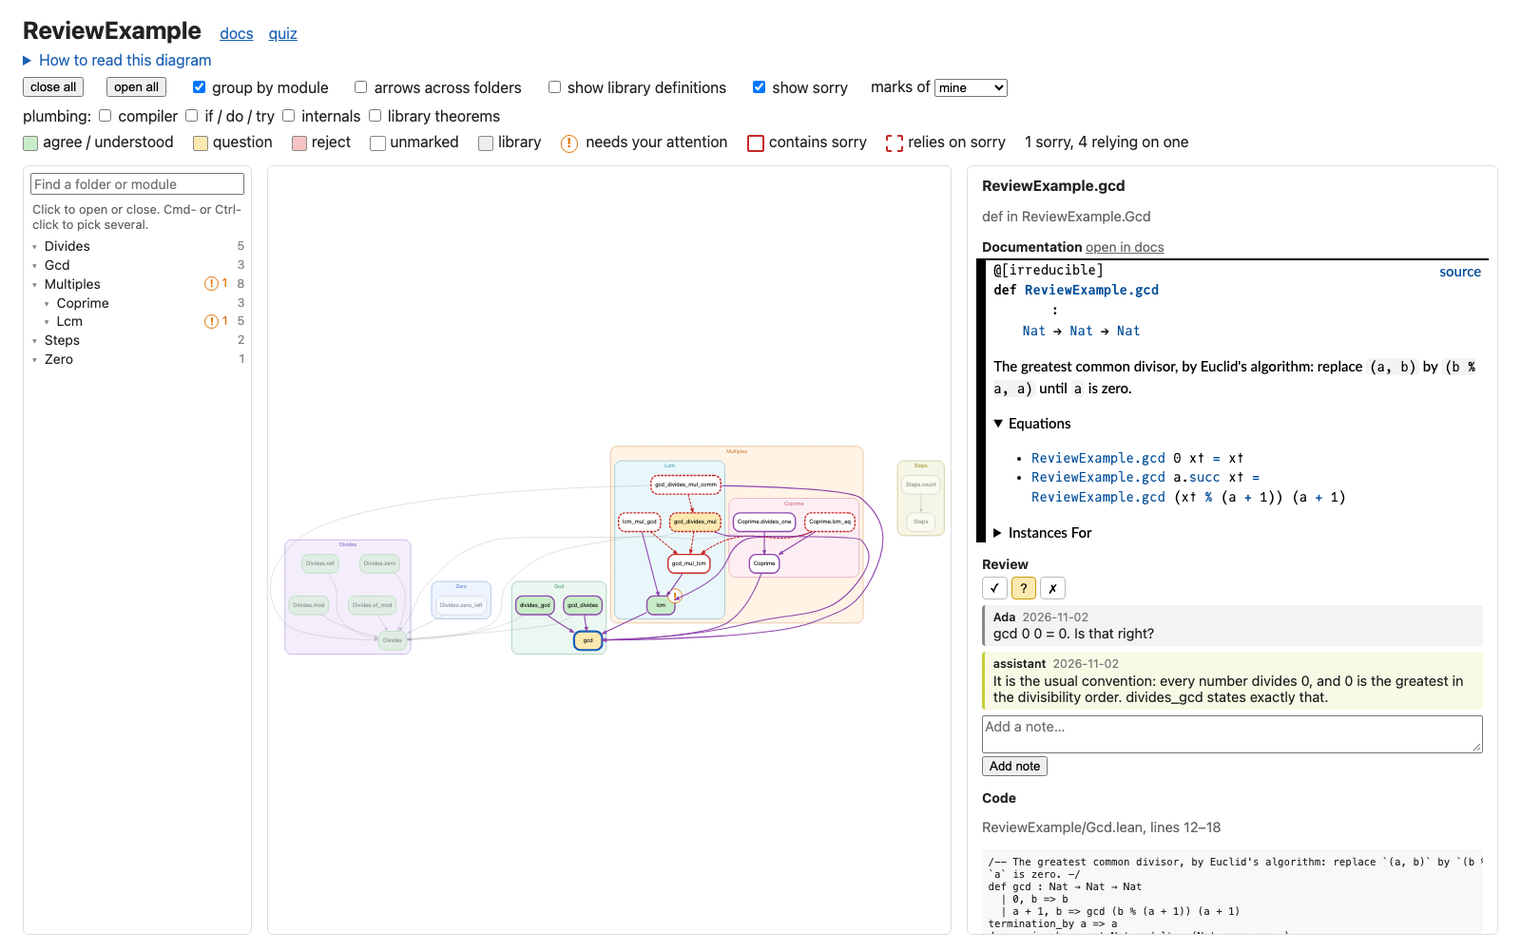
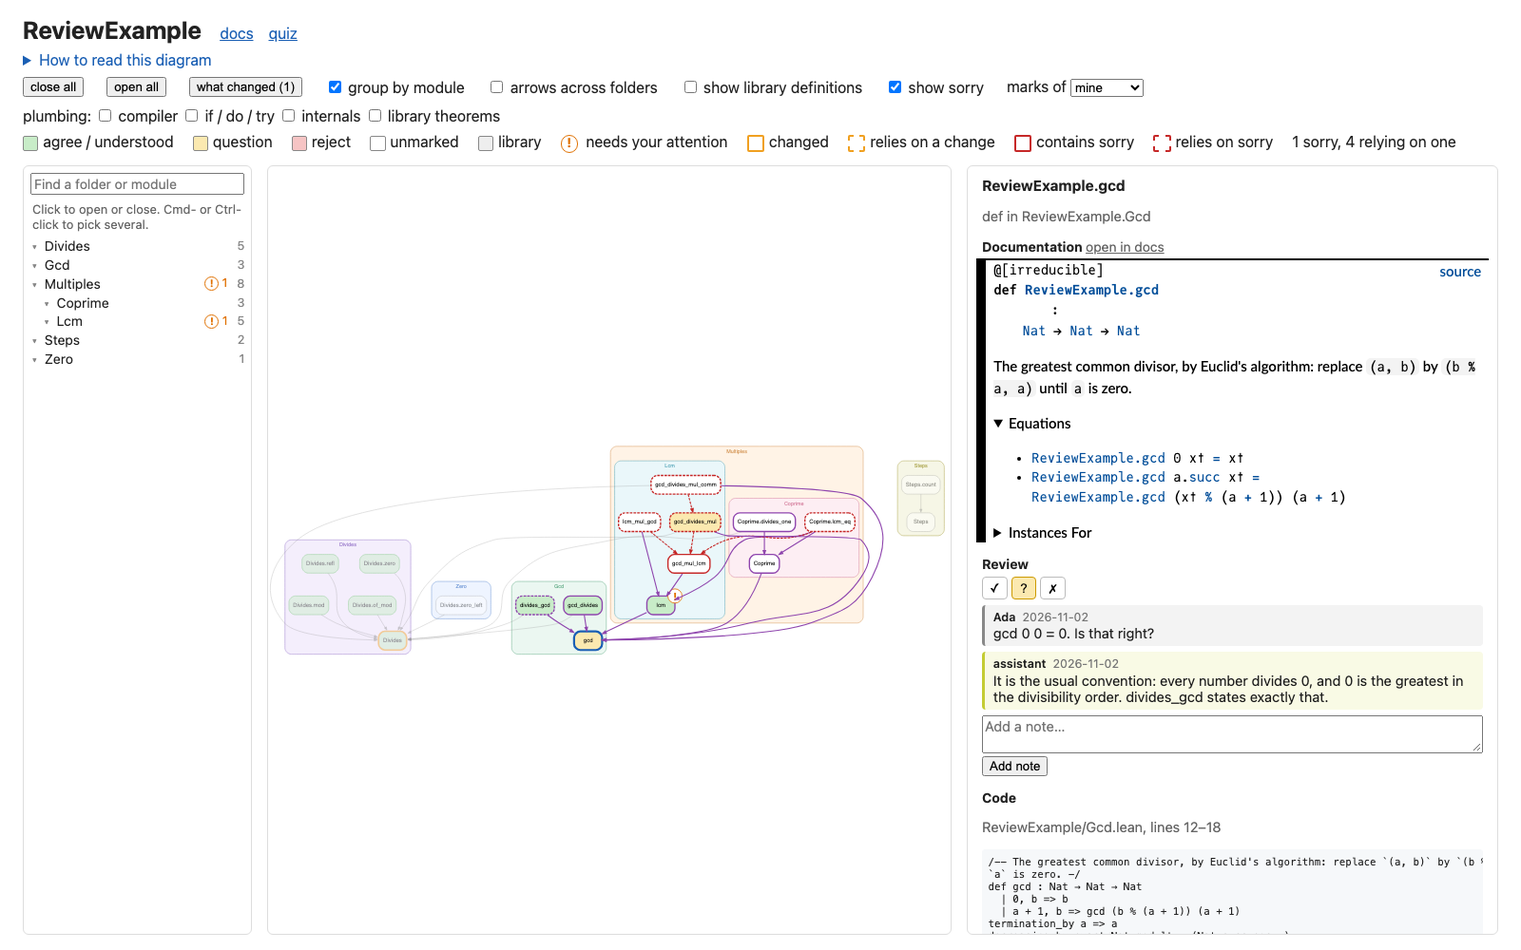
Trace changes: show what changed apart from what relies on it
A solid orange border is a declaration that changed since a mark relying on it, a dashed one what relies on a change, including declarations nobody marked. Selecting a flagged declaration lights the way down to the change, and "what changed" lists changes lowest first, with how many marks rely on each. Marks stay flagged until their owner has looked: accepting a change doesn't accept what's built on it.

Changed region(s): [[0.375, 0.062, 0.9375, 0.155], [0.125, 0.062, 0.3438, 0.124]]

diff --git a/lean_review/web/graph.html b/lean_review/web/graph.html
@@ -82,6 +82,11 @@
   #sidebar .review-notes .by-tool { background: none; border-color: #ccc; color: #777; font-style: italic; font-size: 0.9em; }
   /* Highlighting the selected node, what it depends on (below) and what depends on it (above). */
   .hl-dim { opacity: 0.45; }
+  g.node.hl-change { opacity: 1; }
+  g.node.hl-change path, g.node.hl-change polygon, g.node.hl-change rect { stroke: #f0a020 !important; stroke-width: 3px !important; }
+  g.edge.hl-change { opacity: 1; }
+  g.edge.hl-change path, g.edge.hl-change polygon { stroke: #f0a020 !important; stroke-width: 2.5px !important; }
+  g.edge.hl-change polygon { fill: #f0a020; }
   .hl-selected path, .hl-selected polygon, .hl-selected rect { stroke: #1a5fb4 !important; stroke-width: 4px !important; }
   .hl-down path, .hl-down polygon, .hl-down rect { stroke: #2a7de1 !important; stroke-width: 2.5px !important; }
   .hl-up path, .hl-up polygon, .hl-up rect { stroke: #8e44ad !important; stroke-width: 2.5px !important; }
@@ -107,8 +112,8 @@
   <nav><a id="docs-link" href="/">docs</a><a href="/review/quiz">quiz</a></nav></header>
 <details class="note"><summary>How to read this diagram</summary><p>Each arrow points from a declaration to one it depends on, with the arrows implied
 by others left out (a Hasse diagram). For a theorem, only its statement counts; for a definition,
-its statement and body. Colors are your marks; an orange border means something below changed
-since you marked it. Scroll to zoom, drag to pan. Click a node to see its code and notes, and to
+its statement and body. Colors are your marks; a solid orange border means it changed since a mark that relies on it, a
+dashed one that something below it did; selecting one traces the way down to the change. Scroll to zoom, drag to pan. Click a node to see its code and notes, and to
 highlight <span class="key-down">what it depends on</span> and <span class="key-up">what depends
 on it</span>; click empty space to clear. Boxes are folders and modules, with how many of their
 declarations you have marked: click one to open it, and click an open box's label to close it.
@@ -123,6 +128,7 @@ step by step. Shift-click a <code>sorry</code> to see all it reaches.</p></detai
   <button type="button" id="close-all">close all</button>
   <button type="button" id="open-all" hidden>open all</button>
   <button type="button" id="clear-pins" hidden>show everything</button>
+  <button type="button" id="what-changed" hidden></button>
   <label><input type="checkbox" id="clusters" checked> group by module</label>
   <label><input type="checkbox" id="across"> arrows across folders</label>
   <label><input type="checkbox" id="library"> show library definitions</label>
@@ -137,6 +143,8 @@ step by step. Shift-click a <code>sorry</code> to see all it reaches.</p></detai
     <span><i class="swatch" style="background:#fff"></i>unmarked</span>
     <span><i class="swatch" style="background:#eee"></i>library</span>
     <span id="attention-key" hidden><span class="attention-mark">!</span> needs your attention</span>
+    <span class="change-key" hidden><i class="swatch" style="background:#fff;border:2px solid #f0a020"></i>changed</span>
+    <span class="change-key" hidden><i class="swatch" style="background:#fff;border:2px dashed #f0a020"></i>relies on a change</span>
     <span class="gaps-key" hidden><i class="swatch" style="background:#fff;border:2px solid #c62828"></i>contains sorry</span>
     <span class="gaps-key" hidden><i class="swatch" style="background:#fff;border:2px dashed #c62828"></i>relies on sorry</span>
     <span class="gaps-key" id="gaps-total" hidden></span>
@@ -240,6 +248,18 @@ step by step. Shift-click a <code>sorry</code> to see all it reaches.</p></detai
     return current.size > 1 ? "disagree" : everyMark(n)[0]?.status;
   };
   const stale = n => viewer.value === "all" ? false : isOld(n, shownMark(n));
+  // What changed, and how many marks rely on each: every mark recorded what lay below it, so this
+  // includes declarations nobody marked. Marks shown are the viewer's; everyone's has no single view.
+  const changedNames = () => {
+    const found = new Map();
+    if (viewer.value === "all") return found;
+    for (const n of Object.keys(marks)) {
+      const c = changes(n, shownMark(n));
+      for (const d of [...(c.self ? [n] : []), ...c.deps]) found.set(d, (found.get(d) ?? 0) + 1);
+    }
+    return found;
+  };
+  const changeOf = n => changedNames().has(n) ? "changed" : stale(n) ? "affected" : null;
   const asked = n => marks[n]?.attention?.length > 0;
   const waitingIn = node => Object.keys(marks).filter(n => asked(n) && node.modules.includes(decls[n]?.module)).length;
   const ORANGE = "#e07000";
@@ -251,9 +271,10 @@ step by step. Shift-click a <code>sorry</code> to see all it reaches.</p></detai
   const SORRY = "#c62828";
   const showGaps = () => document.getElementById("gaps").checked;
   const gapOf = n => !showGaps() ? null : decls[n]?.sorry ? "source" : decls[n]?.sorryFrom?.length ? "affected" : null;
-  const border = (isStale, gap, stroke) => gap === "source" ? { color: SORRY, width: 3 }
+  const border = (change, gap, stroke) => gap === "source" ? { color: SORRY, width: 3 }
     : gap === "affected" ? { color: SORRY, width: 2, dashed: true }
-    : isStale ? { color: "#f0a020", width: 3 } : { color: stroke, width: 1 };
+    : change === "affected" ? { color: "#f0a020", width: 2, dashed: true }
+    : change ? { color: "#f0a020", width: 3 } : { color: stroke, width: 1 };
   // Direct dependents of each declaration: for the sidebar, and for arrows from closed boxes.
   const usedBy = new Map();
   const indexUsers = () => {
@@ -397,9 +418,10 @@ step by step. Shift-click a <code>sorry</code> to see all it reaches.</p></detai
     // The diagram as data, drawn by drawGraphviz below.
     const ids = new Map([...inGraph].map((n, i) => [n, "n" + i]));
     model = { nodes: [], edges: [], name: new Map(), id: ids, box: new Map(), down: new Map(), up: new Map(), weight: new Map() };
+    model.boxIdOf = n => { const box = boxOf.get(decls[n]?.module); return box ? boxId(box) : undefined; };
     for (const n of inGraph) {
       model.name.set(ids.get(n), n);
-      model.nodes.push({ id: ids.get(n), label: short(n).replaceAll('"', "'"), stale: stale(n), gap: gapOf(n),
+      model.nodes.push({ id: ids.get(n), label: short(n).replaceAll('"', "'"), stale: changeOf(n), gap: gapOf(n),
         cls: nodeClass(n),
         module: decls[n] ? decls[n].module : null });                    // library: no module box
     }
@@ -483,6 +505,7 @@ step by step. Shift-click a <code>sorry</code> to see all it reaches.</p></detai
     await drawGraphviz(model, target);
     retitle();
     drawBadges();
+    showChanged();
     // Clicking a node selects it; clicking empty space clears the selection.
     target.addEventListener("click", e => {
       // A click on an open box's label closes it.
@@ -716,15 +739,54 @@ step by step. Shift-click a <code>sorry</code> to see all it reaches.</p></detai
   function highlight(id) {
     const nodes = nodeElements(), edges = edgeElements();
     for (const el of [...nodes.values(), ...edges.map(e => e[2])])
-      el.classList.remove("hl-dim", "hl-selected", "hl-down", "hl-up", "hl-both");
+      el.classList.remove("hl-dim", "hl-selected", "hl-down", "hl-up", "hl-both", "hl-change");
     if (!id) return;
     const down = walk(id, model.down), up = walk(id, model.up);
+    const trail = changeTrail(id);
     for (const [n, el] of nodes)
       el.classList.add(n === id ? "hl-selected" : down.has(n) ? "hl-down" : up.has(n) ? "hl-up" : "hl-dim");
     for (const [a, b, el] of edges)
       el.classList.add((a === id || down.has(a)) && (b === id || down.has(b)) ? "hl-down"
         : (b === id || up.has(b)) && (a === id || up.has(a)) ? "hl-up" : "hl-dim");
+    for (const [n, el] of nodes) if (trail.has(n)) el.classList.add("hl-change");
+    for (const [a, b, el] of edges) if (trail.has(a) && trail.has(b)) el.classList.add("hl-change");
   }
+  // The way down from a flagged declaration to what changed: everything between, and those changes.
+  function changeTrail(id) {
+    const name = model.name.get(id), c = name ? changes(name, shownMark(name)) : { self: false, deps: [] };
+    const targets = new Set(c.deps.map(d => model.id.get(d) ?? model.boxIdOf?.(d)).filter(Boolean));
+    if (c.self) targets.add(id);
+    const reaches = new Map();
+    const reach = n => {
+      if (!reaches.has(n)) {
+        reaches.set(n, targets.has(n));
+        reaches.set(n, targets.has(n) || [...(model.down.get(n) ?? [])].map(reach).some(Boolean));
+      }
+      return reaches.get(n);
+    };
+    return targets.size && reach(id) ? new Set([id, ...[...reaches].filter(([, on]) => on).map(([n]) => n)]) : new Set();
+  }
+  const changedButton = document.getElementById("what-changed");
+  const showChanged = () => {
+    const found = changedNames();
+    changedButton.textContent = `what changed (${found.size})`;
+    changedButton.hidden = !found.size;
+    for (const key of document.querySelectorAll(".change-key")) key.hidden = !found.size;
+  };
+  // The lowest first: what a change means depends on what's beneath it.
+  changedButton.onclick = () => {
+    selected = null;
+    highlight(null);
+    const list = el("ul");
+    const found = changedNames();
+    for (const n of [...found.keys()].sort((a, b) => below(a).size - below(b).size || a.localeCompare(b))) {
+      const item = el("li");
+      item.append(ref(n), ` (${found.get(n)} ${found.get(n) === 1 ? "mark relies" : "marks rely"} on it)`);
+      list.append(item);
+    }
+    sidebar.replaceChildren(el("h2", null, "What changed"),
+      el("p", "muted", "Lowest first, since what a change means depends on what's beneath it."), list);
+  };
 
   // Update one node's colors after its mark changes, without redrawing (which would reset zoom).
   function recolor(name) {
@@ -732,17 +794,19 @@ step by step. Shift-click a <code>sorry</code> to see all it reaches.</p></detai
     const id = model.id.get(name);
     const g = id && nodeElements().get(id);
     if (!g) return;
-    const [fill, stroke] = COLORS[nodeClass(name)], isStale = stale(name), b = border(isStale, gapOf(name), stroke);
+    const [fill, stroke] = COLORS[nodeClass(name)], change = changeOf(name), b = border(change, gapOf(name), stroke);
     for (const shape of g.querySelectorAll("path, polygon, rect")) {
       shape.setAttribute("fill", fill);
       shape.setAttribute("stroke", b.color);
       shape.style.fill = fill;
       shape.style.stroke = b.color;
       shape.style.strokeWidth = `${b.width}px`;
+      shape.style.strokeDasharray = b.dashed ? "5,2" : "";
     }
     const node = model.nodes.find(n => n.id === id);
-    if (node) Object.assign(node, { cls: nodeClass(name), stale: isStale });
+    if (node) Object.assign(node, { cls: nodeClass(name), stale: change });
     drawBadges();
+    showChanged();
   }
 
   function select(name) {

diff --git a/lean_review/web/review.js b/lean_review/web/review.js
@@ -133,6 +133,18 @@
 
   const renderers = new Map();   // how to redraw each declaration on this page
 
+  // What changed, and how many of your marks rely on each. Every mark recorded what lay below it,
+  // so this includes declarations you never marked.
+  const changedNames = () => {
+    const found = new Map();
+    for (const [name, mark] of Object.entries(marks)) {
+      if (!mark.status || !mark.fingerprint) continue;
+      const c = changes(name, mark);
+      for (const d of [...(c.self ? [name] : []), ...c.deps]) found.set(d, (found.get(d) ?? 0) + 1);
+    }
+    return found;
+  };
+
   function controls(name, element, library) {
     const textSignature = textFingerprint(element.textContent);
     const box = el("div", "review");
@@ -202,13 +214,16 @@
       element.dataset.reviewStatus = e.status ?? "";
       const c = e.status ? changes(name, e, textSignature) : { self: false, deps: [] };
       stale.replaceChildren();
+      const relying = changedNames().get(name);
       if (c.self) stale.append("changed since you marked it");
+      else if (relying) stale.append(`changed since ${relying} of your marks relied on it`);
       else if (c.deps.length) {
         stale.append("depends on ");
         c.deps.forEach((d, i) => { if (i) stale.append(", "); stale.append(link(d, short(d))); });
         stale.append(", which changed since you marked it");
       }
       element.dataset.reviewStale = c.self || c.deps.length ? "yes" : "";
+      element.dataset.reviewChange = c.self || relying ? "changed" : c.deps.length ? "affected" : "";
       // Only marks of what's there now can disagree.
       const isCurrent = m => { const d = changes(name, m, textSignature); return !d.self && !d.deps.length; };
       const current = [...(e.status && isCurrent(e) ? [e.status] : []),
@@ -283,6 +298,23 @@
     document.body.append(panel);
   }
 
+  // The lowest first: what a change means depends on what's beneath it.
+  function changedPanel() {
+    const panel = el("div", "review-orphans");
+    const close = el("button", "review-close", "close");
+    close.onclick = () => panel.remove();
+    panel.append(el("h3", null, "What changed"), close,
+      el("p", null, "Each of these changed since marks that rely on it were made. Start at the top: what a change means depends on what's beneath it."));
+    const list = el("ul"), found = changedNames();
+    for (const name of [...found.keys()].sort((a, b) => closure(a).size - closure(b).size || a.localeCompare(b))) {
+      const item = el("li");
+      item.append(link(name, name), ` (${found.get(name)} ${found.get(name) === 1 ? "mark relies" : "marks rely"} on it)`);
+      list.append(item);
+    }
+    panel.append(list);
+    document.body.append(panel);
+  }
+
   const needingAttention = () => Object.keys(marks).filter(n => marks[n].attention?.length);
 
   function attentionPanel() {
@@ -353,6 +385,15 @@
     };
     showAsked();
     bar.append(askedButton);
+    const changedButton = el("button", "review-orphan-button");
+    changedButton.onclick = changedPanel;
+    const showChanged = () => {
+      const found = changedNames().size;
+      changedButton.textContent = `what changed (${found})`;
+      changedButton.style.display = found ? "" : "none";
+    };
+    showChanged();
+    bar.append(changedButton);
     if (location.hash === "#review-attention" && needingAttention().length) attentionPanel();
     const filters = el("details", "review-filters");
     filters.append(el("summary", null, "show plumbing"));
@@ -412,6 +453,7 @@
         if (JSON.stringify(marks[name]) !== JSON.stringify(fresh[name])) render(fresh[name] ?? {});
       marks = fresh;
       showAsked();
+      showChanged();
       summarize();
     });
     // ?focus=A,B scrolls to those declarations once the review controls are in place; adding

diff --git a/lean_review/web/review.css b/lean_review/web/review.css
@@ -37,7 +37,8 @@
 .decl[data-review-status="agree"] { border-left: 4px solid #3a3; }
 .decl[data-review-status="question"] { border-left: 4px solid #d9a400; }
 .decl[data-review-status="reject"] { border-left: 4px solid #d44; }
-.decl[data-review-stale="yes"] { box-shadow: -4px 0 0 #f0a020; }
+.decl[data-review-change="changed"] { box-shadow: -4px 0 0 #f0a020; }
+.decl[data-review-change="affected"] { box-shadow: -4px 0 0 #f0a02066; }
 .decl[data-review-disagree="yes"] { border-left: 4px solid #7b4fb5; }
 .review-hide-generated .review-generated { display: none; }
 #review-summary { position: fixed; right: 1em; bottom: 1em; z-index: 10; display: flex; gap: 1em; align-items: center;

diff --git a/tests/test_pages.py b/tests/test_pages.py
@@ -122,7 +122,7 @@ class PagesTest(unittest.TestCase):
         docs.joinpath(*parts).write_text(text)
         return docs
 
-    def click_through(self, marks, script, *, frame=None, page="ReviewExample/Gcd.html", people={}, build=None):
+    def click_through(self, marks, script, *, frame=None, page="ReviewExample/Gcd.html", people={}, build=None, graph=None):
         """Run `script` in a real page, which can't be clicked from outside headless Chrome, and return
         what it adds to `results`. It sees `doc`, the page's document, and any uncaught error fails."""
         driver = DRIVER.replace("SCRIPT", script)
@@ -133,7 +133,7 @@ class PagesTest(unittest.TestCase):
         else:
             docs = self.docs_with(page, (DOCS / page).read_text().replace("</body>", driver + "</body>", 1))
             path = page
-        self.serve(marks, self.graph, docs, people, build)
+        self.serve(marks, graph or self.graph, docs, people, build)
         found = re.search(r'<pre id="driven">(.*?)</pre>', self.page(path, 30000), re.S)
         self.assertIsNotNone(found, "the page's script didn't finish")
         done = json.loads(html.unescape(found[1]))
@@ -269,6 +269,85 @@ class PagesTest(unittest.TestCase):
         self.assertEqual(results[0], "yes")
         self.assertIn("Claude: ?", results[1])
         self.assertEqual(results[2:], [True, ""])
+
+    def changed_below(self):
+        """Marks on `gcd_divides` and `Divides`, made before `gcd` changed. `gcd_divides` relies on it."""
+        marks = {name: {"status": "agree", "notes": [], "date": "2026-01-01T00:00:00", "fingerprint": fingerprint(self.graph, name)}
+                 for name in ("ReviewExample.gcd_divides", "ReviewExample.Divides")}
+        graph = json.loads(json.dumps(self.graph))
+        graph["declarations"][GCD]["own"] = "0000000000000000"
+        return marks, graph
+
+    def test_the_diagram_tells_what_changed_from_what_relies_on_it(self):
+        marks, graph = self.changed_below()
+        results = self.click_through(marks, """
+            await ready("#diagram g.node");
+            await ready("#what-changed:not([hidden])");
+            const node = name => [...doc.querySelectorAll("#diagram g.node")].find(g => g.querySelector("text").textContent === name);
+            const dashes = name => node(name).querySelector("path, polygon").getAttribute("stroke-dasharray") ?? node(name).querySelector("path, polygon").style.strokeDasharray;
+            const color = name => node(name).querySelector("path, polygon").getAttribute("stroke");
+            results.push(color("gcd"), !!dashes("gcd"), color("gcd_divides"), !!dashes("gcd_divides"), color("Divides.refl"));
+            results.push(doc.getElementById("what-changed").textContent);
+        """, frame=f"review/diagram#{GCD}", graph=graph)
+        self.assertEqual(results[0], results[2])
+        self.assertEqual(results[1:2] + results[3:4], [False, True])
+        self.assertNotEqual(results[4], results[0])
+        self.assertEqual(results[5], "what changed (1)")
+
+    def test_selecting_a_flagged_declaration_traces_the_way_down(self):
+        marks, graph = self.changed_below()
+        results = self.click_through(marks, """
+            await ready("#diagram g.node.hl-selected");
+            const lit = [...doc.querySelectorAll("#diagram g.node.hl-change")].map(g => g.querySelector("text").textContent).sort();
+            results.push(lit, doc.querySelectorAll("#diagram g.edge.hl-change").length > 0);
+        """, frame="review/diagram#ReviewExample.gcd_divides", graph=graph)
+        self.assertEqual(results, [["gcd", "gcd_divides"], True])
+
+    def test_a_change_in_a_closed_folder_is_traced_to_its_box(self):
+        names = {f"P.Big.M{i}.x{k}": {"kind": "def", "module": f"P.Big.M{i}", "lines": [1, 1], "own": "1", "deep": "1", "deps": [], "uses": []}
+                 for i in range(3) for k in range(30)}
+        names["P.Other.y"] = {"kind": "def", "module": "P.Other", "lines": [1, 1], "own": "1", "deep": "1", "deps": ["P.Big.M0.x0"], "uses": []}
+        graph = {"format": 1, "root": "P", "declarations": names, "library": {}, "renames": {},
+                 "modules": {m: [] for m in {d["module"] for d in names.values()}}}
+        marks = {"P.Other.y": {"status": "agree", "notes": [], "date": "2026-01-01T00:00:00",
+                               "fingerprint": {"own": "1", "deps": {"P.Big.M0.x0": "0"}}}}
+        results = self.click_through(marks, """
+            await ready("#diagram g.node");
+            await ready("#what-changed:not([hidden])");
+            results.push(doc.getElementById("what-changed").textContent);
+        """, frame="review/diagram", graph=graph)
+        self.assertEqual(results, ["what changed (1)"])
+
+    def test_what_changed_lists_the_lowest_first(self):
+        marks, graph = self.changed_below()
+        graph["declarations"]["ReviewExample.Divides"]["own"] = "1111111111111111"
+        results = self.click_through(marks, """
+            await ready("#what-changed:not([hidden])");
+            doc.getElementById("what-changed").click();
+            await ready("#sidebar li");
+            results.push(...[...doc.querySelectorAll("#sidebar li")].map(li => li.textContent));
+        """, frame="review/diagram", graph=graph)
+        self.assertEqual(len(results), 2)
+        self.assertIn("Divides", results[0])
+        self.assertIn("gcd", results[1])
+        self.assertIn("1 mark relies on it", results[1])
+
+    def test_a_docs_page_tells_what_changed_from_what_relies_on_it(self):
+        marks, graph = self.changed_below()
+        results = self.click_through(marks, """
+            await ready(".decl[data-review-change=affected]");
+            const decl = name => doc.getElementById(name);
+            results.push(decl("ReviewExample.gcd").dataset.reviewChange, decl("ReviewExample.gcd").querySelector(".review-stale").textContent);
+            results.push(decl("ReviewExample.gcd_divides").dataset.reviewChange);
+            const button = [...doc.querySelectorAll("#review-summary button")].find(b => b.textContent.startsWith("what changed"));
+            results.push(button.textContent);
+            button.click();
+            results.push(doc.querySelector(".review-orphans li").textContent);
+        """, graph=graph)
+        self.assertEqual(results[0], "changed")
+        self.assertIn("1 of your marks", results[1])
+        self.assertEqual(results[2:4], ["affected", "what changed (1)"])
+        self.assertIn("1 mark relies on it", results[4])
 
     LIVE_NOTE = """fetch("/review/data", { method: "POST", headers: { "Content-Type": "application/json" },
         body: JSON.stringify({ id: "claude", author: "Claude", name: "ReviewExample.gcd", status: "question", note: "Live." }) });"""

diff --git a/docs/features.md b/docs/features.md
@@ -5,7 +5,11 @@ Under every declaration:
 - **A mark:** ✓ agree, ? question, ✗ reject how it's defined. Click it again to clear it.
 - **A note thread,** for questions and answers, from everyone reviewing.
 - **Change tracking:** the mark is flagged when the declaration has changed since it was made, or
-  when anything it depends on has ("depends on `Divides`, which changed since you marked it").
+  when anything it depends on has ("depends on `Divides`, which changed since you marked it"), however
+  far below. In the diagram a solid orange border is what changed and a dashed one what relies on it, and
+  selecting one lights the way down to the change. "What changed" lists every change, lowest first, with
+  how many marks rely on it. Each mark stays flagged until you've looked at it: accepting a change below
+  doesn't accept what's built on it.
   For a theorem only its statement counts, since Lean checks the proof; for a definition, its
   statement and body. A change only to how an argument is passed, such as `(n : Nat)` to
   `{n : Nat}`, isn't flagged: it changes how the declaration is called, not what it says.

diff --git a/CHANGELOG.md b/CHANGELOG.md
@@ -16,6 +16,7 @@ First public version. Works with Lean v4.30 to v4.35, with the matching doc-gen4
 - `lean-review` reviews every library in the project by default, or the libraries and modules you name.
 - Projects whose libraries set `srcDir` show their declarations' code.
 - Each person has their own marks file, shown together: your marks by default, anyone else's or everyone's in the diagram, with disagreements marked. Someone's `?` needs your attention until you mark or reply. An older `review/marks.json` is imported.
+- Changes are traced: what changed is shown apart from what relies on it, the diagram lights the way down, and "what changed" lists changes lowest first.
 - Marks and notes appear on open pages by themselves. The server can stay up through a rebuild, and pages offer to reload when it's done, or say so if it failed.
 - Everything lives in `.lean-review/`, which git ignores but for the marks. Quiz answers stay local.
 - Marks files and the graph record a format; the server refuses a format it doesn't read, and a marks file it can't parse, instead of overwriting it.
